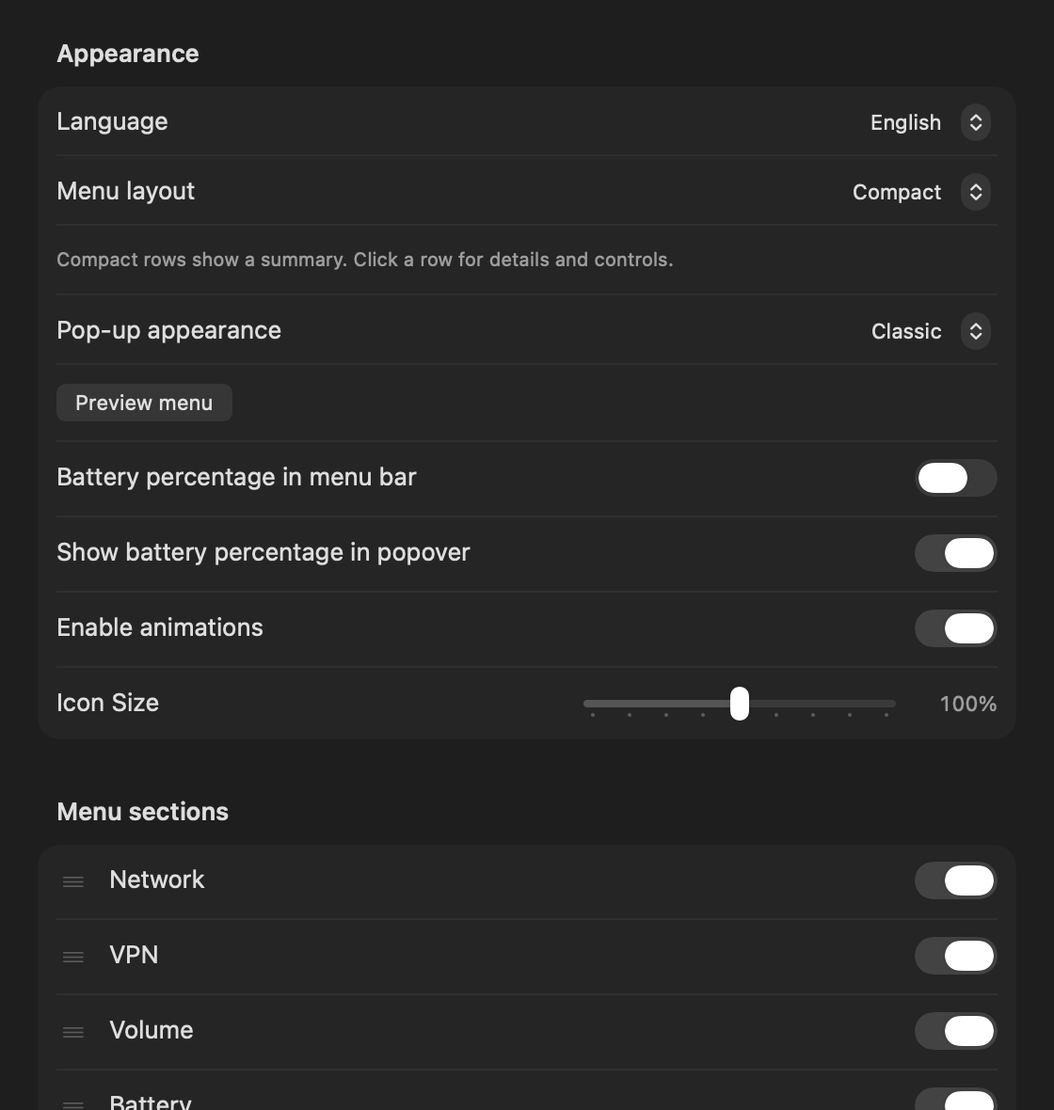
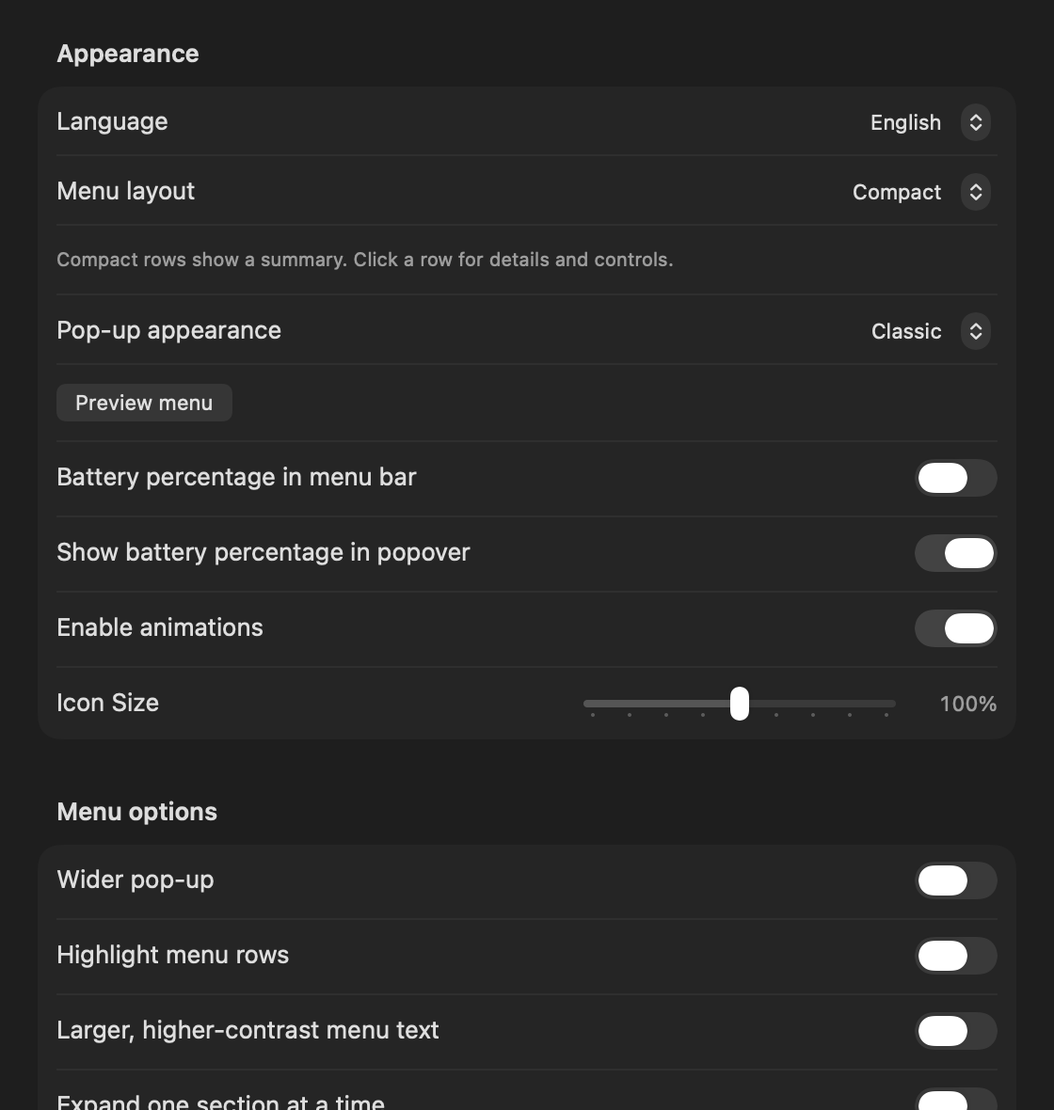
chore(release): prepare T-DuoBar 1.14.0 build 41

diff --git a/README.ru.md b/README.ru.md
@@ -7,9 +7,9 @@
   <img alt="macOS 13 or later" src="https://img.shields.io/badge/macOS-13%2B-222222?logo=apple&amp;logoColor=white">
   <img alt="Apple Silicon and Intel" src="https://img.shields.io/badge/Universal_2-Apple_Silicon_%2B_Intel-248A3D">
   <a href="LICENSE"><img alt="MIT license" src="https://img.shields.io/badge/license-MIT-blue"></a>
-  <a href="https://github.com/squazaryu/T-DuoBar/releases/tag/v1.13.0"><img alt="Experimental release 1.13.0" src="https://img.shields.io/badge/release-1.13.0_experimental-orange"></a>
+  <a href="https://github.com/squazaryu/T-DuoBar/releases/tag/v1.14.0"><img alt="Experimental release 1.14.0" src="https://img.shields.io/badge/release-1.14.0_experimental-orange"></a>
 </p>
-<p align="center"><a href="https://github.com/squazaryu/T-DuoBar/releases/tag/v1.13.0">Скачать</a> · <a href="README.md">English</a> · <a href="docs/COMPARISON.md">Сравнение форков</a> · <a href="DEVELOPMENT.md">Исходники и сборка</a></p>
+<p align="center"><a href="https://github.com/squazaryu/T-DuoBar/releases/tag/v1.14.0">Скачать</a> · <a href="README.md">English</a> · <a href="docs/COMPARISON.md">Сравнение форков</a> · <a href="DEVELOPMENT.md">Исходники и сборка</a></p>
 
 Независимый общественный форк [DuoBar от Mike Li (Mikeli7666)](https://github.com/Mikeli7666/DuoBar). Батарея, сеть и звук объединены в одном значке строки меню, а подробности и управление доступны в pop-up.
 
@@ -25,7 +25,7 @@
 
 ## Два вида меню
 
-**Доступно в 1.13.0.** Выбирайте привычные карточки или компактный список — оба варианта сохраняют все разделы и действия.
+**Доступно с 1.13.0.** Выбирайте привычные карточки или компактный список — оба варианта сохраняют все разделы и действия.
 
 **Обычный** вид сохраняет отдельные карточки и сразу доступный ползунок громкости. **Компактный** объединяет краткие строки в одну группу: нажатие раскрывает управление, устройства и ссылку на системные настройки. Порядок, видимость разделов и избранное общие для обоих вариантов.
 
@@ -63,9 +63,35 @@
 
 *Нативные рендеры интерфейса с демонстрационными значениями, без личных данных пользователя. Меню показано с фоном Classic; Liquid Glass на этих снимках не имитируется. Снимки нового интерфейса относятся к версии 1.13.0.*
 
+## Дополнительные опции и история батареи
+
+В **Настройки → Основные → Параметры меню** доступны пять независимых опций: широкое меню (360 вместо 304 pt), подсветка строк, крупный контрастный текст, один раскрытый раздел и диагностика сети. **Все пять по умолчанию выключены.** Выбор не меняет материал Classic / Liquid Glass.
+
+История батареи доступна в раскрытом разделе без переключателя: график за 6 часов и расход за последний непрерывный час работы от батареи. Данные хранятся локально до 24 часов, без нового таймера опроса. Зарядка и паузы разделяются; прошлые часы до установки не восстанавливаются.
+
+| История батареи | Широкий вид с крупным текстом |
+| --- | --- |
+| <img src="assets/menu-tools/history-light.png" width="304" alt="Раскрытый раздел батареи с локальной историей и расходом за час"> | <img src="assets/menu-tools/readable-light.png" width="360" alt="Компактное меню с включёнными шириной и режимом читаемости, включая микрофон"> |
+
+<details>
+<summary>Тёмная тема и настройки новых опций</summary>
+
+| История батареи · тёмная тема | Крупный текст · тёмная тема |
+| --- | --- |
+| <img src="assets/menu-tools/history-dark.png" width="304" alt="История батареи в тёмной теме"> | <img src="assets/menu-tools/readable-dark.png" width="360" alt="Широкое меню с крупным текстом в тёмной теме"> |
+
+<img src="assets/menu-tools/overview-light.png" width="1000" alt="Нативные светлые рендеры: меню, история и все пять переключателей">
+<img src="assets/menu-tools/overview-dark.png" width="1000" alt="Те же настройки и история в тёмной теме">
+
+</details>
+
+*На снимках — демонстрационные показания; дополнительные опции включены для примера. На узком меню оценка времени батареи при нехватке места уступает место проценту; полное время доступно при раскрытии.*
+
+Диагностика появляется в разделе «Сеть» только после включения опции и запускается кнопкой «Проверить соединение». Она проверяет HTTPS-доступность www.apple.com, отдельно показывает ошибки DNS и не следует перенаправлениям. Это не проверка всех приложений или защиты VPN; фоновых проверок нет.
+
 ## Установка и обновление
 
-[Скачать DMG 1.13.0](https://github.com/squazaryu/T-DuoBar/releases/download/v1.13.0/T-DuoBar-1.13.0.dmg?build=40) · [Релиз и SHA-256](https://github.com/squazaryu/T-DuoBar/releases/tag/v1.13.0)
+[Скачать DMG 1.14.0](https://github.com/squazaryu/T-DuoBar/releases/download/v1.14.0/T-DuoBar-1.14.0.dmg?build=41) · [Релиз и SHA-256](https://github.com/squazaryu/T-DuoBar/releases/tag/v1.14.0)
 
 ```sh
 brew install --cask squazaryu/tap/t-duobar
@@ -91,19 +117,19 @@ open /Applications/DuoBar.app
 
 [Сравнение документированных возможностей с оригиналом и другим форком](docs/COMPARISON.md), проверенное 21 октября 2026 года.
 
-## Новое в 1.13.0 · сборка 40
+## Новое в 1.14.0 · сборка 41
 
-Обычный и компактный виды меню, плавное раскрытие разделов и облегчённая нижняя панель. В разделе сети доступны ближайшие Wi-Fi-сети и подключение. Исправлены привязка автозапуска к тестовой копии и блокировка запуска при чтении Bluetooth. Улучшено определение внутренней батареи, размер значка можно запросить до 120% с учётом ограничения высоты macOS.
+Пять дополнительных опций меню и локальная история батареи. График учитывает язык интерфейса и показывает проценты на шкале; повтор источника питания убран. В компактном меню цифровые показания не обрезаются посередине. Новые опции не включаются автоматически, прежние настройки сохраняются.
 
-[Release notes](release/1.13.0/RELEASE_NOTES_1.13.0.md) · [Проверки и ограничения](release/1.13.0/VALIDATION.md)
+[Release notes](release/1.14.0/RELEASE_NOTES_1.14.0.md) · [Проверки и ограничения](release/1.14.0/VALIDATION.md)
 
 ## Приватность и ограничения
 
-Системные показания обрабатываются локально. Аналитики и передачи данных батареи, сети и устройств нет. Проверка обновлений делает HTTPS-запрос к файлу версии в нашем Homebrew tap. Выбор микрофона меняет устройство ввода Core Audio; приложение не записывает звук.
+Системные показания обрабатываются локально. Аналитики и передачи данных батареи, сети и устройств нет. Проверка обновлений делает HTTPS-запрос к файлу версии в нашем Homebrew tap. Выбор микрофона меняет устройство ввода Core Audio; приложение не записывает звук. История батареи хранится только локально. Необязательная диагностика делает запрос к www.apple.com только по нажатию кнопки.
 
-VPN показывает только настроенные подключения, о которых сообщает macOS, и не гарантирует защиту всего трафика. Один лишь туннельный интерфейс не считается доказательством VPN. Показания аксессуаров и оценки времени зависят от macOS и оборудования; отсутствие данных обозначается явно. Подключение к Wi-Fi начинается только по явному выбору сети; для защищённых паролем сетей дополнительно нужно нажать Join. пароль передаётся CoreWLAN в памяти, не сохраняется и не записывается в журнал. Для корпоративных и неподдерживаемых сетей открываются настройки Wi-Fi macOS. Приложение не выполняет сопряжение Bluetooth; лимит заряда недоступен.
+VPN показывает только настроенные подключения, о которых сообщает macOS, и не гарантирует защиту всего трафика. Один лишь туннельный интерфейс не считается доказательством VPN. Показания аксессуаров и оценки времени зависят от macOS и оборудования; отсутствие данных обозначается явно. Подключение к Wi-Fi начинается только по явному выбору сети; для защищённых паролем сетей дополнительно нужно нажать Join. Пароль передаётся CoreWLAN в памяти, не сохраняется и не записывается в журнал. Для корпоративных и неподдерживаемых сетей открываются настройки Wi-Fi macOS. Приложение не выполняет сопряжение Bluetooth; лимит заряда недоступен.
 
-Проверки выпуска описаны в [VALIDATION.md](release/1.13.0/VALIDATION.md). Реальное подключение к другой Wi-Fi-сети и вход после перезагрузки не выполнялись. Intel проверен сборкой, запуск — на Apple Silicon. Новые длительные замеры расхода батареи не заявляются.
+Проверки выпуска описаны в [VALIDATION.md](release/1.14.0/VALIDATION.md). Реальное подключение к другой Wi-Fi-сети и вход после перезагрузки не выполнялись. Intel проверен сборкой, запуск — на Apple Silicon. Новые длительные замеры расхода батареи не заявляются.
 
 ## Исходники и авторы
 

diff --git a/README.md b/README.md
@@ -7,9 +7,9 @@
   <img alt="macOS 13 or later" src="https://img.shields.io/badge/macOS-13%2B-222222?logo=apple&amp;logoColor=white">
   <img alt="Apple Silicon and Intel" src="https://img.shields.io/badge/Universal_2-Apple_Silicon_%2B_Intel-248A3D">
   <a href="LICENSE"><img alt="MIT license" src="https://img.shields.io/badge/license-MIT-blue"></a>
-  <a href="https://github.com/squazaryu/T-DuoBar/releases/tag/v1.13.0"><img alt="Experimental release 1.13.0" src="https://img.shields.io/badge/release-1.13.0_experimental-orange"></a>
+  <a href="https://github.com/squazaryu/T-DuoBar/releases/tag/v1.14.0"><img alt="Experimental release 1.14.0" src="https://img.shields.io/badge/release-1.14.0_experimental-orange"></a>
 </p>
-<p align="center"><a href="https://github.com/squazaryu/T-DuoBar/releases/tag/v1.13.0">Download</a> · <a href="README.ru.md">Русский</a> · <a href="docs/COMPARISON.md">Compare forks</a> · <a href="DEVELOPMENT.md">Source &amp; build</a></p>
+<p align="center"><a href="https://github.com/squazaryu/T-DuoBar/releases/tag/v1.14.0">Download</a> · <a href="README.ru.md">Русский</a> · <a href="docs/COMPARISON.md">Compare forks</a> · <a href="DEVELOPMENT.md">Source &amp; build</a></p>
 
 An independent community fork of [DuoBar by Mike Li (Mikeli7666)](https://github.com/Mikeli7666/DuoBar). Keep battery, network and audio together in one menu bar indicator, with a more capable pop-up when you need the details.
 
@@ -25,7 +25,7 @@ An independent community fork of [DuoBar by Mike Li (Mikeli7666)](https://github
 
 ## Two menu layouts
 
-**Available in 1.13.0.** Choose familiar cards or a compact list; both retain the same sections and actions.
+**Available since 1.13.0.** Choose familiar cards or a compact list; both retain the same sections and actions.
 
 Choose **Standard** for separate cards and immediately accessible volume controls, or **Compact** for a single group of summary rows. Click a compact row to reveal its controls, devices and system-settings link. Both layouts share your section order, visibility and favorites.
 
@@ -63,9 +63,35 @@ Choose in **Settings → General → Appearance → Menu layout**. Standard rema
 
 *Native application-view renders with demonstration values, not personal desktop or connection data. Menu images use the Classic background; they do not simulate Liquid Glass. The new interface images show version 1.13.0.*
 
+## Optional menu tools and battery history
+
+**Settings → General → Menu options** adds five independent opt-ins: a wider popup (360 instead of 304 pt), row highlighting, larger/higher-contrast text, one expanded section at a time and network diagnostics. **All five are off by default.** Layout and Classic / Liquid Glass material remain independent.
+
+Battery history is always available inside expanded Battery, without a toggle: a six-hour graph and consumption over a continuous unplugged hour. Readings stay local for up to 24 hours, using existing callbacks instead of a new polling timer. Charging sessions and gaps are separated; data before installation is not backfilled.
+
+| Battery history | Wider, readable menu |
+| --- | --- |
+| <img src="assets/menu-tools/history-light.png" width="304" alt="Expanded Battery showing local history and hourly consumption"> | <img src="assets/menu-tools/readable-light.png" width="360" alt="Wide Compact menu with larger text and microphone enabled"> |
+
+<details>
+<summary>Dark appearance and the new settings</summary>
+
+| Battery history · dark | Readable menu · dark |
+| --- | --- |
+| <img src="assets/menu-tools/history-dark.png" width="304" alt="Local battery history in dark appearance"> | <img src="assets/menu-tools/readable-dark.png" width="360" alt="Wide readable menu in dark appearance"> |
+
+<img src="assets/menu-tools/overview-light.png" width="1000" alt="Native light renders: menu, history and all five opt-in controls">
+<img src="assets/menu-tools/overview-dark.png" width="1000" alt="The same menu options and history in dark appearance">
+
+</details>
+
+*Native demo readings; options are enabled for illustration. If the narrow menu cannot fit a battery estimate, it keeps the percentage readable; expand Battery for the full estimate.*
+
+After enabling diagnostics, Network offers **Check connection**. It checks HTTPS reachability of www.apple.com, distinguishes DNS failures and does not follow redirects. This does not test every application or VPN protection. There are no background checks.
+
 ## Install and update
 
-[Download the 1.13.0 DMG](https://github.com/squazaryu/T-DuoBar/releases/download/v1.13.0/T-DuoBar-1.13.0.dmg?build=40) · [Release notes and SHA-256](https://github.com/squazaryu/T-DuoBar/releases/tag/v1.13.0)
+[Download the 1.14.0 DMG](https://github.com/squazaryu/T-DuoBar/releases/download/v1.14.0/T-DuoBar-1.14.0.dmg?build=41) · [Release notes and SHA-256](https://github.com/squazaryu/T-DuoBar/releases/tag/v1.14.0)
 
 ```sh
 brew install --cask squazaryu/tap/t-duobar
@@ -91,19 +117,19 @@ T-DuoBar keeps the four dots dedicated to **volume**, and builds out the battery
 
 See the [documented comparison with upstream and another fork](docs/COMPARISON.md), checked on 21 October 2026.
 
-## New in 1.13.0 · build 40
+## New in 1.14.0 · build 41
 
-Standard and Compact menu layouts, animated disclosure and a lighter utility footer. Network details now include nearby Wi-Fi discovery and joining. Fixes prevent test copies from taking over the login item and Bluetooth initialization from blocking launch. Internal-battery mapping is more reliable; requested icon size reaches 120%, fitted to macOS menu-bar height.
+Five optional menu tools and local battery history. Chart time labels follow the app language and its axis shows charge percentages. Duplicate power-source text is removed; narrow Compact rows keep numeric battery readings legible. New opt-ins are not enabled automatically and existing preferences are retained.
 
-[Release notes](release/1.13.0/RELEASE_NOTES_1.13.0.md) · [Validation and limits](release/1.13.0/VALIDATION.md)
+[Release notes](release/1.14.0/RELEASE_NOTES_1.14.0.md) · [Validation and limits](release/1.14.0/VALIDATION.md)
 
 ## Privacy and practical limits
 
-System readings are processed locally. There is no analytics backend or upload of battery, network or device readings. The updater makes an HTTPS request to the version manifest in our Homebrew tap. Selecting a microphone changes the Core Audio input device; it does not record audio.
+System readings are processed locally. There is no analytics backend or upload of battery, network or device readings. The updater makes an HTTPS request to the version manifest in our Homebrew tap. Selecting a microphone changes the Core Audio input device; it does not record audio. Battery history stays local. Optional diagnostics request www.apple.com only after an explicit button press.
 
 VPN status includes only configured connections reported by macOS. It does not prove that all traffic is protected. A tunnel interface alone is not treated as proof of a VPN connection. Device battery data and time estimates depend on macOS/device support; missing readings remain explicit. Joining Wi-Fi starts only after explicit selection of a network; password-protected networks also require the Join button. Passwords are passed in memory to CoreWLAN and are never saved or logged. Enterprise and unsupported networks open macOS Wi-Fi Settings. T-DuoBar does not pair Bluetooth devices, and the charge-limit readout is unavailable.
 
-See [VALIDATION.md](release/1.13.0/VALIDATION.md) for release checks. Joining another real Wi-Fi network and login after a reboot remain unverified. Intel is compiled; runtime validation is on Apple Silicon. New long-duration energy measurements are not claimed.
+See [VALIDATION.md](release/1.14.0/VALIDATION.md) for release checks. Joining another real Wi-Fi network and login after a reboot remain unverified. Intel is compiled; runtime validation is on Apple Silicon. New long-duration energy measurements are not claimed.
 
 ## Build, source and credits
 

diff --git a/DEVELOPMENT.md b/DEVELOPMENT.md
@@ -277,10 +277,13 @@ The footer is a 26-point utility bar with a smaller Settings label and an access
 A live startup sample also showed the main thread blocked inside `IOBluetoothHostController.default()` before the status item could be created. Bluetooth power-state reads now run on a serial utility queue; repeated refresh requests coalesce into one follow-up. A slow system Bluetooth coordinator cannot block launch or menu interaction. Only value snapshots cross back to the main actor. `BluetoothStartupTests` holds the first read to verify that startup returns and the queue remains bounded.
 
 
-## Optional menu tools and local battery history (unreleased)
+## Optional menu tools and local battery history (1.14.0)
 
 Settings → General → Menu options exposes five independent opt-ins, all false by default: wide popup (304 → 360 pt), row highlighting, larger/higher-contrast content text, one expanded main section at a time, and on-demand network diagnostics. Existing layout/material/transparency preferences are retained. Disabling any option restores its original behavior. The one-section rule does not collapse Network when its nested Nearby Networks list opens.
 
 Diagnostics are idle until Check connection is pressed. An ephemeral, cookie/credential/cache-free URLSession requests the small HTTPS test page at www.apple.com, with bounded timeouts and no redirects. A successful response confirms name resolution along that request's route; DNS lookup failures are distinguished, while other failures leave name resolution unconfirmed. This is not a full Internet/VPN leak test. Network changes, section removal, option disablement and real popup closure/invalidation cancel requests and discard late results. No diagnostic timer is installed.
 
 Battery history is always available inside expanded Battery, without an opt-in switch. It records existing internal-battery callbacks at most once per minute, retaining power-source boundaries, with a 1500-sample/24-hour cap. Data is stored only locally, at most every 15 minutes plus power changes and normal app termination. Test stores are in-memory by default. The chart shows six hours and breaks across charging changes or gaps over five minutes. Hourly consumption requires a continuous unplugged hour and a fresh reading; short or interrupted sessions are not extrapolated. History begins with this build; there is no fabricated backfill and no new polling timer.
+
+
+Release visual coverage: `MenuReleaseVisualTests` renders both layouts, both themes and every width/readability combination in English, Russian, German and Simplified Chinese. Native header clicks open the actual Battery/Network sections. History is seeded in-memory with charging and sleep gaps; diagnostics use a fake provider. Output is `$TMPDIR/T-DuoBar-ReleaseVisual/`. Narrow battery headers use a percentage fallback instead of ellipsizing numeric estimates; full estimates remain in details/VoiceOver. Chart axis labels use the app locale explicitly and include percent units.

diff --git a/release/1.14.0/VALIDATION.md b/release/1.14.0/VALIDATION.md
@@ -1,0 +1,23 @@
+# T-DuoBar 1.14.0 (41): validation
+
+Checked on 31 October 2026, Apple Silicon/macOS 27.2. Publication was authorized subject to visual inspection.
+
+## Visual checks
+
+The native production-view matrix exercised 192 combinations: Standard/Compact, light/dark, 304/360 pt, regular/readable text, English/Russian/German/Simplified Chinese, and collapsed menu/expanded Battery/expanded Network. Real header clicks open the panels inside offscreen test windows; demo history includes charging and sleep gaps, and diagnostics use a fake provider. Representative captures were inspected at native resolution across all four languages and both layouts/themes. Existing localization checks cover all six translations.
+
+The pass found/fixed English AM/PM labels in Russian charts and a repeated power-source sentence. Charge-axis units are explicit. Narrow Compact battery rows now fall back to an intact percentage rather than ellipsizing a numeric duration. Full estimates remain available on expansion and in accessibility text. Native captures verify microphone/audio row alignment, visible controls and wrapped explanatory text. Wide and readable modes remain independent.
+
+## Regression and packaging
+
+430 regression tests passed, 0 failed, 1 opt-in hardware test skipped. The five HardwareIntegrationTests were explicitly excluded. The visual matrix ran separately (the full-matrix test plus existing component checks passed); it was not duplicated in the 430-test count. All tests use fake network joins; real Wi-Fi association was not performed.
+
+Coverage includes independent defaults/live width/accordion behavior, history sampling/retention/reload/continuity, request coalescing/cancellation and popup closure, startup isolation, Bluetooth responsiveness, disclosure motion and prior glyph/update behavior. One existing diagnostic remains in the test-only legacy MP4 exporter; XCTest deployment/linking warnings are unchanged.
+
+Universal 2 packaging verifies version 1.14.0/build 41, arm64/x86_64, strict ad-hoc code signatures, DMG integrity and SHA-256. Publication/download/cask/manifest/install verification is retained under ignored build/release-1.14.0. User settings and recent local history are preserved through the update.
+
+## Limits
+
+Battery consumption needs a fresh, continuous unplugged hour; charging, long gaps or insufficient data suppress the hourly figure. Data before installation is not fabricated. Diagnostics establish only the documented Apple endpoint along the current route, not all Internet traffic or VPN protection. No periodic diagnostic requests or new battery polling timer were added.
+
+Actual next-login/reboot acceptance and long-duration energy measurements remain unverified. Intel/macOS 13 are compile targets only; runtime validation is on Apple Silicon/macOS 27.2. Distribution remains experimental, ad-hoc signed and without Developer ID or Apple notarization. No breaking change or preference migration.

diff --git a/release/1.14.0/RELEASE_NOTES_1.14.0.md b/release/1.14.0/RELEASE_NOTES_1.14.0.md
@@ -1,0 +1,16 @@
+# T-DuoBar 1.14.0 · build 41
+
+- Five independent opt-ins in Settings → General → Menu options: wide popup, row highlighting, larger/higher-contrast text, one expanded main section and manual network diagnostics. All are off by default; existing settings are retained.
+- Local battery history is always available in expanded Battery: a six-hour chart and consumption over a continuous unplugged hour. Data is capped at 24 hours/1500 samples, without an additional polling timer. History starts with installation; charging/sleep gaps are not bridged.
+- Diagnostics check a single Apple HTTPS test page only after Check connection is pressed. DNS failures are distinguished, redirects/cookies/credential storage are disabled and closing the popup cancels the request. This is not a VPN leak test or a guarantee of every app's connectivity.
+- Visual polish: locale-aware chart hours, percentage axis labels, no duplicate power-source sentence and a percentage fallback instead of truncated numeric estimates in narrow Compact rows.
+
+No breaking changes or preference migration. No new options are enabled automatically. After updating, choose any desired options; hourly usage appears only after enough continuous battery readings have accumulated.
+
+Universal 2, macOS 13+. Experimental ad-hoc signed community build, without Developer ID signing or Apple notarization. See VALIDATION.md for checks and limits.
+
+---
+
+Пять независимых дополнительных опций меню — все по умолчанию выключены. В раскрытом разделе батареи доступна локальная история без отдельного переключателя: график за 6 часов и расход за непрерывный час работы от батареи. Данные до установки не восстанавливаются, фоновый таймер не добавлен.
+
+Необязательная диагностика выполняется только по кнопке и проверяет тестовую HTTPS-страницу Apple. Исправлены подписи времени/процентов графика, повтор питания и обрезание числовой оценки в узком меню. Настройки сохраняются; миграций и breaking changes нет. Сборка экспериментальная, с ad-hoc подписью и без нотариализации Apple.

diff --git a/assets/README.md b/assets/README.md
@@ -15,3 +15,10 @@ Reproduce with `RepositoryArtworkTests/testRenderRepositoryArtwork` in the DuoBa
 `layouts/standard-light.png`, `layouts/standard-dark.png`, `layouts/compact-light.png` and `layouts/compact-dark.png` show both selectable layouts. `layouts/settings-light.png` and `layouts/settings-dark.png` show the independent layout picker and background choice. These images include the current compact utility footer and shared last-row spacing.
 
[1 lines of base64/hex data omitted]
+
+
+## Optional tools and history (1.14.0)
+
+`menu-tools/history-{light,dark}.png` are actual expanded Battery popups from `MenuReleaseVisualTests` (English, Compact, normal width/text). `menu-tools/readable-{light,dark}.png` show the wide/readable Compact menu with all sections enabled. Data is synthetic and no personal connection or battery readings are shown.
+
[1 lines of base64/hex data omitted]
